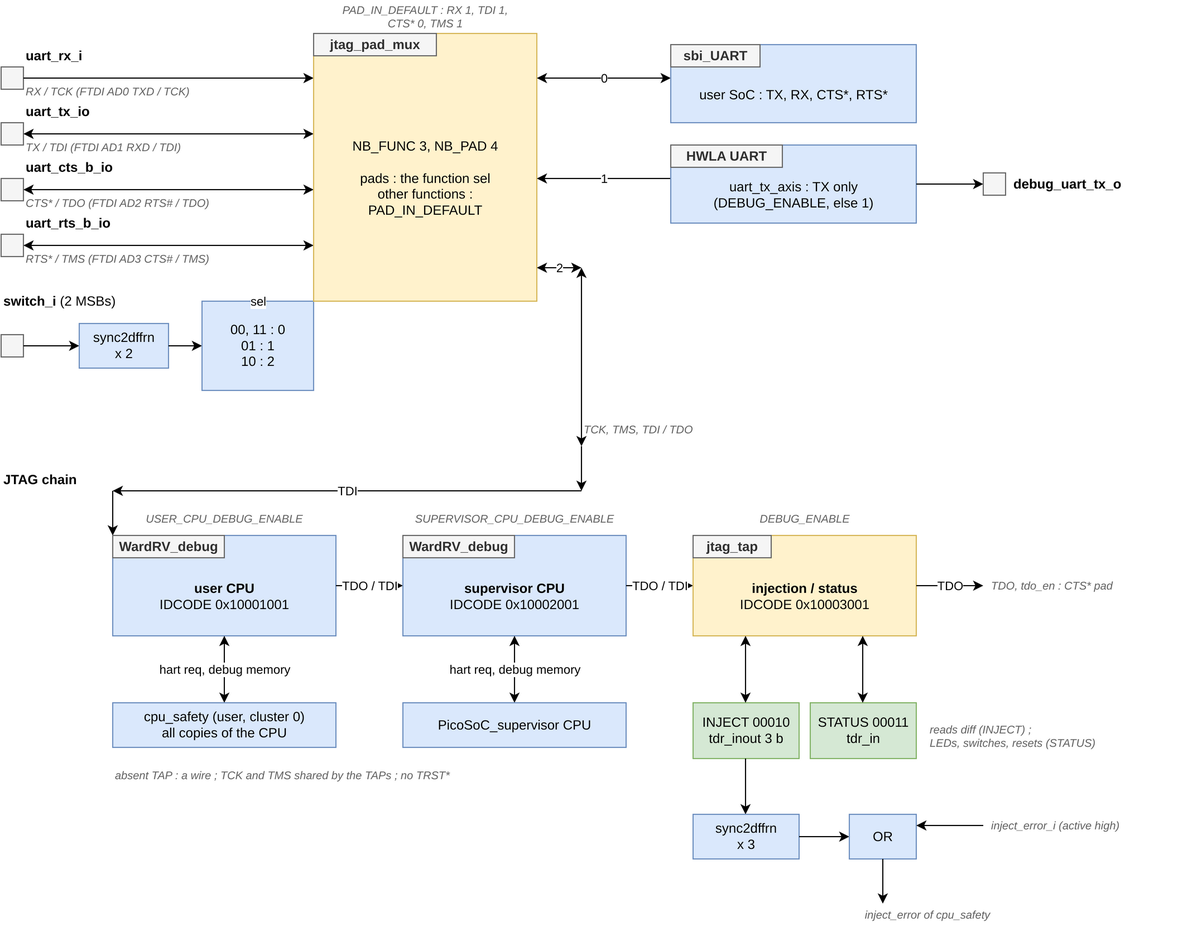
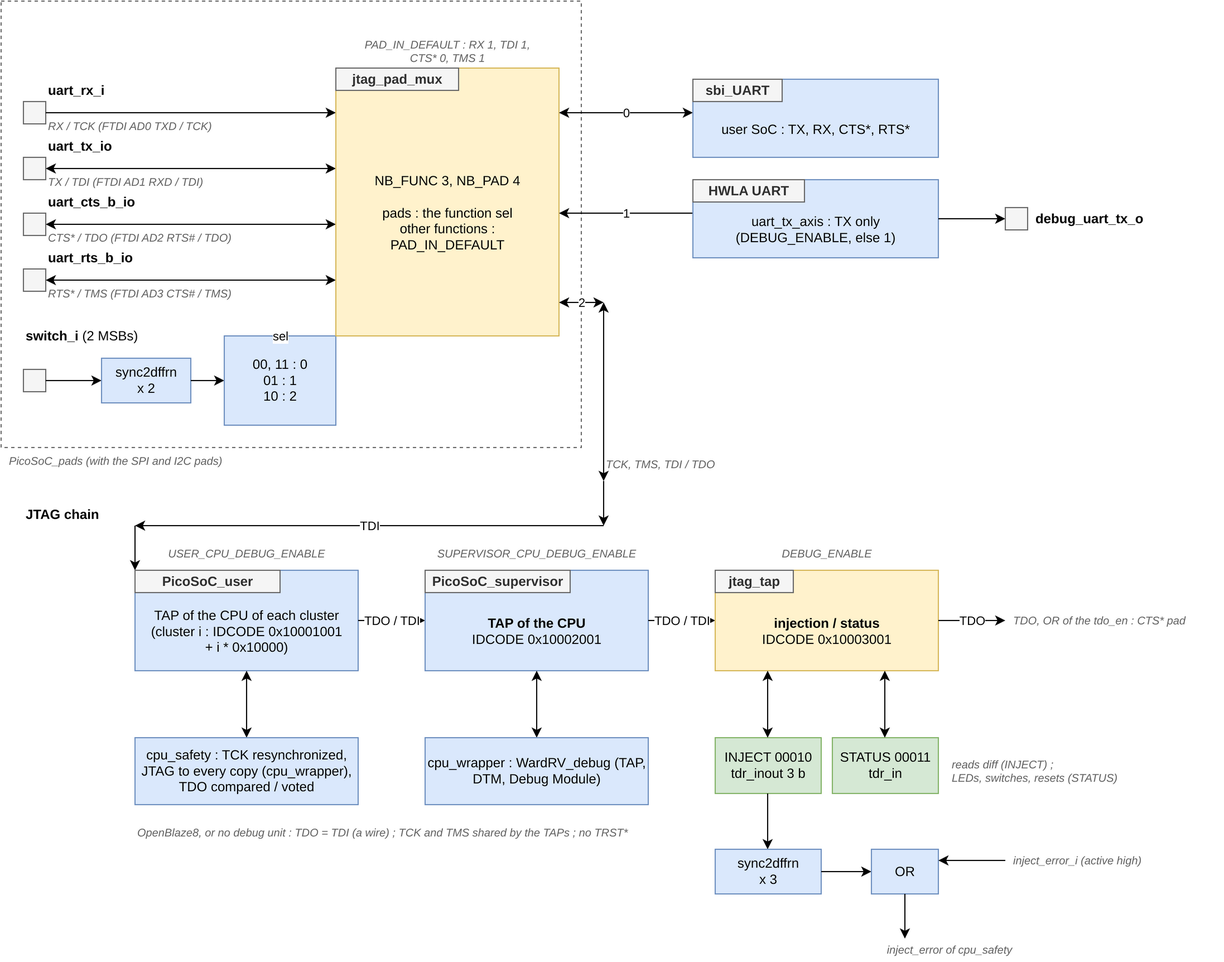
PicoSoC - README : debug units in cpu_wrapper, PicoSoC_pads, JTAG timing (TCK below FSYS_INT / 8), Resources, doc page jtag

diff --git a/README.md b/README.md
@@ -61,7 +61,7 @@ The SoC has two parts:
 - the **user SoC** (`PicoSoC_user`): 1 to `USER_NB_CPU` CPU clusters (CPU, program ROM, local interconnect, GIC and RAM) sharing the peripherals through a global interconnect;
 - the **supervisor SoC** (`PicoSoC_supervisor`, optional): one CPU that watches the differences between the redundant user CPUs (lock-step or TMR) and resets the user SoC on an error.
 
-The top level `PicoSoC_top` adds the board side: reset resynchronization, clock divider, input polarities, SPI and I2C pads, the UART pads shared by the user UART, the UART of the logic analyzer and a JTAG chain (selected by two switches), with `DEBUG_ENABLE` a logic analyzer (HWLA) on the bus of the user CPU and a JTAG TAP of fault injection and status, and optionally the RISC-V debuggers of the WardRV CPUs in the JTAG chain. The firmware in [esw/](esw/) is compiled by FuseSoC generators into the ROMs at build time; the targets run it on GHDL testbenches or on a NanoXplore NG-MEDIUM board.
+The top level `PicoSoC_top` adds the board side: reset resynchronization, clock divider, input polarities, the pads (`PicoSoC_pads`: SPI, I2C, and the UART pads shared by the user UART, the UART of the logic analyzer and a JTAG chain, selected by two switches), with `DEBUG_ENABLE` a logic analyzer (HWLA) on the bus of the user CPU and a JTAG TAP of fault injection and status. The JTAG chain also goes through the user and supervisor SoCs, where the WardRV CPUs can have their RISC-V debug unit (in `cpu_wrapper`). The firmware in [esw/](esw/) is compiled by FuseSoC generators into the ROMs at build time; the targets run it on GHDL testbenches or on a NanoXplore NG-MEDIUM board.
 
 ## Features
 
@@ -75,7 +75,7 @@ The top level `PicoSoC_top` adds the board side: reset resynchronization, clock 
 - Firmware in C (and one assembler example): switch / LED identity, full peripheral test with UART output, Modbus RTU server, multi-core hello with spinlock, supervisor
 - Debug (`DEBUG_ENABLE`): HWLA logic analyzer on the bus of the user CPU, triggered by a difference of the redundant CPUs, captures sent on `debug_uart_tx_o` at 115200 baud; JTAG TAP of fault injection (ORed with `inject_error_i`) and status (LEDs, switches, resets)
 - UART pads shared by 3 functions (`jtag_pad_mux` of [asylum-debug-jtag](https://github.com/deuskane/asylum-debug-jtag)), selected by the two MSBs of `switch_i`: user UART, UART of the HWLA, JTAG chain; JTAG pinout of an FTDI MPSSE cable (FT232H / FT2232H): one cable is the UART and the JTAG probe
-- JTAG chain: RISC-V debuggers (`WardRV_debug`, Debug Specification 1.0, for OpenOCD + GDB) of the user CPU (`USER_CPU_DEBUG_ENABLE`) and of the supervisor CPU (`SUPERVISOR_CPU_DEBUG_ENABLE`), then the injection / status TAP; the debug requests reach every redundant copy of the CPU
+- JTAG chain: RISC-V debug units (`WardRV_debug` in `cpu_wrapper`, Debug Specification 1.0, for OpenOCD + GDB) of the user CPUs (one TAP per cluster, `USER_CPU_DEBUG_ENABLE`) and of the supervisor CPU (`SUPERVISOR_CPU_DEBUG_ENABLE`), then the injection / status TAP; the JTAG pins reach every redundant copy of the CPU, whose TDO is compared or voted; an OpenBlaze8 (or a CPU without debug unit) is a wire in the chain (TDO = TDI)
 - Self-checking UVVM testbenches driven by the firmware, with an SPI flash model, and NG-MEDIUM board targets
 
 ## Block Diagram
@@ -88,7 +88,7 @@ Supervisor SoC (top) and user SoC (bottom) with their address maps. The dashed b
 
 ![UART pads and JTAG chain of PicoSoC_top](doc/picosoc-jtag.png)
 
-Page `jtag` of the same file: the UART pads, their multiplexer and the JTAG chain of `PicoSoC_top` (see [UART pads and JTAG](#uart-pads-and-jtag)).
+Page `jtag` of the same file: the UART pads and their multiplexer (`PicoSoC_pads`), and the JTAG chain of `PicoSoC_top` (see [UART pads and JTAG](#uart-pads-and-jtag)).
 
 ## Getting Started
 
@@ -234,8 +234,8 @@ Generics of `PicoSoC_top`:
 | `FSYS_INT` | positive | `50_000_000` | Frequency of the SoC (Hz): clock divider ratio `FSYS/FSYS_INT`, UART clock |
 | `RESET_POLARITY` | string | `"low"` | Active level of `arst_i`: `"high"` / `"low"` |
 | `DEBUG_ENABLE` | boolean | `True` | HWLA on the bus of the user CPU, captures on `debug_uart_tx_o` (see [Debug: HWLA](#debug-hwla)); JTAG TAP of fault injection and status, last TAP of the JTAG chain |
-| `USER_CPU_DEBUG_ENABLE` | boolean | `False` | RISC-V debugger (`WardRV_debug`) of the user CPU (cluster 0), first TAP of the JTAG chain; `CPU_MODEL = "WardRV_fsm"` only |
-| `SUPERVISOR_CPU_DEBUG_ENABLE` | boolean | `False` | RISC-V debugger of the supervisor CPU, TAP after the user CPU one; `CPU_MODEL = "WardRV_fsm"` and `SUPERVISOR` only |
+| `USER_CPU_DEBUG_ENABLE` | boolean | `False` | RISC-V debug unit (`WardRV_debug`, in `cpu_wrapper`) of the user CPU of every cluster: one TAP per cluster, first TAPs of the JTAG chain; `CPU_MODEL = "WardRV_fsm"` only |
+| `SUPERVISOR_CPU_DEBUG_ENABLE` | boolean | `False` | RISC-V debug unit of the supervisor CPU, TAP after the user CPU ones; `CPU_MODEL = "WardRV_fsm"` and `SUPERVISOR` only |
 | `CPU_MODEL` | string | `"OpenBlaze8"` | `"OpenBlaze8"` or `"WardRV_fsm"`, for the user and supervisor CPUs; the ROMs of the target must be built for this CPU |
 | `USER_NB_CPU` | natural | `1` | Number of CPU clusters of the user SoC |
 | `USER_ICN_TARGET_SEL` | string | `"or"` | Response selection of the user interconnects: `"or"` / `"mux"` |
@@ -313,22 +313,22 @@ Figures of the `syn_*` targets (`make nonreg_syn`, see [Targets](#targets)): `Pi
 
 | Configuration | LUT¹ | LUTRAM¹ | FF¹ | CARRY4¹ | MUXF7/F8¹ | BRAM¹ | DSP¹ | TBUF¹ | Area² (µm²) | kGE³ |
 |---|---|---|---|---|---|---|---|---|---|---|
-| `syn_soc1` (OpenBlaze8) | 1315 | 108 | 788 | 60 | 181 | 0.5 | 0 | 13 | 190926.86 | 50.865 |
-| `syn_soc4_ng_medium` (OpenBlaze8) | 1994 | 304 | 1006 | 128 | 77 | 1 | 0 | 7 | 490681.85 | 130.723 |
-| `syn_wardrv_soc1` (WardRV_fsm) | 2188 | 104 | 1069 | 54 | 203 | 1 | 0 | 13 | 164076.11 | 43.712 |
-| `syn_wardrv_soc4_ng_medium` (WardRV_fsm) | 5442 | 304 | 2137 | 104 | 729 | 2 | 0 | 7 | 380302.24 | 101.317 |
-| `syn_wardrv_soc4_ng_medium_debug` (WardRV_fsm, `DEBUG_ENABLE`, both CPU debuggers) | 8685 | 420 | 3591 | 135 | 1152 | 2 | 0 | 7 | 685343.55 | 182.583 |
+| `syn_soc1` (OpenBlaze8) | 1313 | 108 | 788 | 60 | 164 | 0.5 | 0 | 13 | 192036.68 | 51.161 |
+| `syn_soc4_ng_medium` (OpenBlaze8) | 1993 | 304 | 1006 | 128 | 76 | 1 | 0 | 7 | 492165.78 | 131.118 |
+| `syn_wardrv_soc1` (WardRV_fsm) | 2121 | 104 | 1069 | 54 | 216 | 1 | 0 | 13 | 164231.26 | 43.753 |
+| `syn_wardrv_soc4_ng_medium` (WardRV_fsm) | 5459 | 304 | 2137 | 104 | 773 | 2 | 0 | 7 | 380099.55 | 101.263 |
+| `syn_wardrv_soc4_ng_medium_debug` (WardRV_fsm, `DEBUG_ENABLE`, both CPU debuggers) | 9356 | 420 | 4343 | 149 | 1186 | 2 | 0 | 7 | 718594.19 | 191.441 |
 
 With the HWLA ([Debug: HWLA](#debug-hwla)) and the injection / status TAP: the same configurations with `DEBUG_ENABLE = true` (`fusesoc --cores-root . run --target syn_soc1 asylum:soc:PicoSoC --DEBUG_ENABLE=true`):
 
 | Configuration, `DEBUG_ENABLE = true` | LUT¹ | LUTRAM¹ | FF¹ | CARRY4¹ | MUXF7/F8¹ | BRAM¹ | DSP¹ | TBUF¹ | Area² (µm²) | kGE³ |
 |---|---|---|---|---|---|---|---|---|---|---|
-| `syn_soc1` (OpenBlaze8) | 1609 | 204 | 1150 | 77 | 78 | 0.5 | 0 | 13 | 367182.16 | 97.821 |
-| `syn_soc4_ng_medium` (OpenBlaze8) | 2361 | 400 | 1377 | 145 | 63 | 1 | 0 | 7 | 671804.31 | 178.976 |
-| `syn_wardrv_soc1` (WardRV_fsm) | 2453 | 220 | 1473 | 71 | 162 | 1 | 0 | 13 | 378757.01 | 100.905 |
-| `syn_wardrv_soc4_ng_medium` (WardRV_fsm) | 5701 | 420 | 2550 | 121 | 639 | 2 | 0 | 7 | 592685.93 | 157.898 |
+| `syn_soc1` (OpenBlaze8) | 1590 | 204 | 1150 | 77 | 83 | 0.5 | 0 | 13 | 365899.68 | 97.480 |
+| `syn_soc4_ng_medium` (OpenBlaze8) | 2430 | 400 | 1377 | 145 | 278 | 1 | 0 | 7 | 669938.77 | 178.479 |
+| `syn_wardrv_soc1` (WardRV_fsm) | 2503 | 220 | 1473 | 71 | 209 | 1 | 0 | 13 | 378670.68 | 100.882 |
+| `syn_wardrv_soc4_ng_medium` (WardRV_fsm) | 5796 | 420 | 2550 | 121 | 763 | 2 | 0 | 7 | 592107.88 | 157.744 |
 
-The HWLA and its UART cost about 180 to 260 LUTs, 96 (OpenBlaze8) or 116 (WardRV_fsm) LUTRAM for its RAM of 64 x 72 or 86 bits, 280 to 330 flip-flops and 17 CARRY4 on Artix-7, and 170000 to 210000 µm² in sky130, where its RAM becomes flip-flops. The injection / status TAP adds about 80 to 90 flip-flops (its IDCODE, IR and TDR shift registers, the INJECT register and its synchronizers) and up to about 130 LUTs (the LUT count of the `DEBUG_ENABLE` configurations moves with the technology mapping); the CPU debuggers (`syn_wardrv_soc4_ng_medium_debug` against `syn_wardrv_soc4_ng_medium` with `DEBUG_ENABLE`) about 3000 LUTs and 1040 flip-flops: two Debug Modules and the debug logic of the 4 WardRV_fsm (3 user copies in TMR and the supervisor). The two synchronizers of the switch MSBs (pad multiplexer) add 4 flip-flops to every configuration; the other small differences between versions come from the technology mapping, which changes with the order and the names of the cells of the netlist.
+The HWLA and its UART cost about 180 to 260 LUTs, 96 (OpenBlaze8) or 116 (WardRV_fsm) LUTRAM for its RAM of 64 x 72 or 86 bits, 280 to 330 flip-flops and 17 CARRY4 on Artix-7, and 170000 to 210000 µm² in sky130, where its RAM becomes flip-flops. The injection / status TAP adds about 80 to 90 flip-flops (its IDCODE, IR and TDR shift registers, the INJECT register and its synchronizers) and up to about 130 LUTs (the LUT count of the `DEBUG_ENABLE` configurations moves with the technology mapping); the CPU debug units (`syn_wardrv_soc4_ng_medium_debug` against `syn_wardrv_soc4_ng_medium` with `DEBUG_ENABLE`) about 3600 LUTs and 1800 flip-flops: a debug unit (TAP, DTM, Debug Module) in each of the 4 WardRV_fsm (3 user copies in TMR and the supervisor) and their debug logic. The two synchronizers of the switch MSBs (pad multiplexer) add 4 flip-flops to every configuration; the other small differences between versions come from the technology mapping, which changes with the order and the names of the cells of the netlist.
 
 ¹ Xilinx Artix-7 (LUT6), Yosys 0.33 `synth_xilinx -flatten -noiopad -noclkbuf`, before place and route: every cell of the netlist is counted, Vivado may differ. An `INV` counts as a `LUT1`. The user ROM goes to BRAM (a `RAMB18E1` counts 0.5), the RAMs and FIFOs mostly to LUTRAM. TBUF: tristate pad buffers (the OBUFT / IOBUF of the I/O blocks, not logic, never in LUT), one per pad whose output enable is not constant: the SPI data lanes (8 in `soc1`, 2 with the NG-MEDIUM generics; SCLK and CS\* are plain outputs), I2C SCL and SDA, and the 3 inout UART pads (TX / TDI, CTS\* / TDO, RTS\* / TMS). The logic that drives the pads (data and output enables, TDO of the JTAG chain) is counted. These figures need `asylum:utils:yosys_synth` >= 1.1.0: older versions lost the logic behind the `inout` pads of component instances (a GHDL synthesis issue) and rejected the tristate buffers.
 
@@ -336,7 +336,7 @@ The HWLA and its UART cost about 180 to 260 LUTs, 96 (OpenBlaze8) or 116 (WardRV
 
 ³ Area in thousands of NAND2 gate equivalents (`sky130_fd_sc_hd__nand2_1` = 3.7536 µm²).
 
-The NG-MEDIUM board targets (`emu_ng_medium_*`) need NXmap, which is not in the asylum-env image: no figure for this FPGA (about 32000 4-input LUTs and 32000 flip-flops: the 8.7k LUT6 and 3.6k flip-flops of the largest configuration, with the CPU debuggers, are expected to fit, not checked with NXmap).
+The NG-MEDIUM board targets (`emu_ng_medium_*`) need NXmap, which is not in the asylum-env image: no figure for this FPGA (about 32000 4-input LUTs and 32000 flip-flops: the 9.4k LUT6 and 4.3k flip-flops of the largest configuration, with the CPU debuggers, are expected to fit, not checked with NXmap).
 
 ## Theory of Operation
 
@@ -344,11 +344,12 @@ The NG-MEDIUM board targets (`emu_ng_medium_*`) need NXmap, which is not in the 
 
 | File | Unit | Role |
 |------|------|------|
-| [hdl/PicoSoC_top.vhd](hdl/PicoSoC_top.vhd) | `PicoSoC_top` | Top level: reset resynchronization, clock divider, polarities, user and supervisor SoCs, SPI and I2C pads, UART pads (`jtag_pad_mux`), JTAG chain (CPU debuggers, injection / status TAP), HWLA (`DEBUG_ENABLE`) |
+| [hdl/PicoSoC_top.vhd](hdl/PicoSoC_top.vhd) | `PicoSoC_top` | Top level: reset resynchronization, clock divider, polarities, user and supervisor SoCs, pads, JTAG chain (user SoC, supervisor SoC, injection / status TAP), HWLA (`DEBUG_ENABLE`) |
+| [hdl/PicoSoC_pads.vhd](hdl/PicoSoC_pads.vhd) | `PicoSoC_pads` | Pads: UART pads shared by the user UART, the HWLA UART and the JTAG chain (`jtag_pad_mux`, switch MSB synchronizers and select), SPI pads (`obuf`, `iobuf`), I2C open-drain pads |
 | [hdl/PicoSoC_user.vhd](hdl/PicoSoC_user.vhd) | `PicoSoC_user` | User SoC: CPU clusters (`cpu_safety`, `ROM_user`, ICN1, GIC, RAM1), ICN2 and the shared peripherals |
 | [hdl/PicoSoC_supervisor.vhd](hdl/PicoSoC_supervisor.vhd) | `PicoSoC_supervisor` | Supervisor SoC: CPU, `ROM_supervisor`, ICN, 2 GPIO, GIC, RAM |
-| [hdl/cpu_safety.vhd](hdl/cpu_safety.vhd) | `cpu_safety` | 1, 2 or 3 CPUs, lock-step delay line and compare, TMR vote, fault injection, debug ports of the copies |
-| [hdl/cpu_wrapper.vhd](hdl/cpu_wrapper.vhd) | `cpu_wrapper` | `sbi_OpenBlaze8` or `sbi_WardRV_fsm` from `CPU_MODEL` (debug ports with `DEBUG_ENABLE`) |
+| [hdl/cpu_safety.vhd](hdl/cpu_safety.vhd) | `cpu_safety` | 1, 2 or 3 CPUs, lock-step delay line and compare, TMR vote, fault injection, JTAG pins of the copies (TCK resynchronized) |
+| [hdl/cpu_wrapper.vhd](hdl/cpu_wrapper.vhd) | `cpu_wrapper` | `sbi_OpenBlaze8` or `sbi_WardRV_fsm` from `CPU_MODEL`; with `DEBUG_ENABLE` (WardRV_fsm) its debug unit `WardRV_debug`, else TDO = TDI |
 | [hdl/PicoSoC_pkg.vhd](hdl/PicoSoC_pkg.vhd) | `PicoSoC_pkg` | Address maps, GIC source indexes, JTAG IDCODEs and instructions, debug records, components |
 | (generated) | `ROM_user`, `ROM_supervisor` | Program ROMs built from [esw/](esw/) by `pbcc_gen` / `rvcc_gen` |
 
@@ -376,11 +377,11 @@ Safety and multi-core combine: the redundancy is inside each cluster (its `cpu_s
 
 ![cpu_safety lock-step](doc/picosoc-cpu_safety-lock_step.png)
 
-Lock-step: CPU0 drives the SoC. Its inputs (reset, instruction, bus response, interrupt, debug requests) go through `USER_LOCK_STEP_DEPTH` registers to CPU1; the outputs of CPU1 (`ics`, `iaddr`, interrupt acknowledge, bus request, debug memory access) are compared with the delayed outputs of CPU0. The bus requests are compared with the `"/="` of `sbi_pkg`: the address only when `cs = '1'`, the data only when `we = '1'`. A difference sets `diff_o(0)` until the reset.
+Lock-step: CPU0 drives the SoC. Its inputs (reset, instruction, bus response, interrupt, JTAG pins of the debug unit) go through `USER_LOCK_STEP_DEPTH` registers to CPU1; the outputs of CPU1 (`ics`, `iaddr`, interrupt acknowledge, bus request, TDO and `ndmreset` of the debug unit) are compared with the delayed outputs of CPU0. The bus requests are compared with the `"/="` of `sbi_pkg`: the address only when `cs = '1'`, the data only when `we = '1'`. A difference sets `diff_o(0)` until the reset.
 
 ![cpu_safety TMR](doc/picosoc-cpu_safety-TMR.png)
 
-TMR: 3 CPUs get the same inputs; `ics`, `iaddr`, the bus request, the interrupt acknowledge and the debug memory access are majority-voted bit by bit. `diff_o` bits 0, 1, 2 latch the differences CPU0 / CPU1, CPU1 / CPU2 and CPU2 / CPU0.
+TMR: 3 CPUs get the same inputs; `ics`, `iaddr`, the bus request, the interrupt acknowledge, TDO and `ndmreset` are majority-voted bit by bit. `diff_o` bits 0, 1, 2 latch the differences CPU0 / CPU1, CPU1 / CPU2 and CPU2 / CPU0.
 
 Fault injection: `inject_error_i(i)` XORs one instruction bit of CPU `i` (bit 17 / 16 / 15 for OpenBlaze8, bit 0 / 1 / 2 for WardRV). The difference flags of all clusters are ORed into `PicoSoC_user.diff_o`.
 
@@ -425,7 +426,7 @@ gtkwave capture.vcd
 
 ### UART pads and JTAG
 
-The 4 UART pads go through `jtag_pad_mux` of [asylum-debug-jtag](https://github.com/deuskane/asylum-debug-jtag): the two MSBs of `switch_i` (`switch_i(USER_NB_SWITCH-1 downto USER_NB_SWITCH-2)`, synchronized on the SoC clock by two `sync2dffrn`) give them to one function:
+The 4 UART pads go through `jtag_pad_mux` (in `PicoSoC_pads`) of [asylum-debug-jtag](https://github.com/deuskane/asylum-debug-jtag): the two MSBs of `switch_i` (`switch_i(USER_NB_SWITCH-1 downto USER_NB_SWITCH-2)`, synchronized on the SoC clock by two `sync2dffrn`) give them to one function:
 
 | Switches (MSBs) | Function | Pads |
 |-----------------|----------|------|
@@ -442,19 +443,19 @@ The pinout is the one of an FTDI MPSSE cable (FT232H, channel A of an FT2232H): 
 | `uart_cts_b_io` | AD2 (RTS# / TDO) | CTS*, input | TDO, output in Shift-IR / Shift-DR, `'Z'` otherwise | `IOB5_D01N`, weak pull-down |
 | `uart_rts_b_io` | AD3 (CTS# / TMS) | RTS*, output | TMS, input | `IOB5_D01P`, weak pull-up |
 
-The functions that do not own the pads see `PAD_IN_DEFAULT`: RX idle (`'1'`), CTS* active (`'0'`: the user UART keeps sending into nothing and its firmware never waits, so the program goes on while the pads are given to JTAG), TDI `'1'`, TMS `'1'` (the TAPs stay in Test-Logic-Reset); TCK reads the RX default (`'1'`, no clock edge). Without any TAP (`DEBUG_ENABLE` and both CPU debuggers off), the JTAG mode drives no pad: TDO stays `'Z'`. The pad mapping is in the `PAD_*` constants and in one assignment block of `PicoSoC_top`; a fourth function on the code `11` is one more line in the decoder (and `NB_FUNC = 4`).
+The functions that do not own the pads see `PAD_IN_DEFAULT`: RX idle (`'1'`), CTS* active (`'0'`: the user UART keeps sending into nothing and its firmware never waits, so the program goes on while the pads are given to JTAG), TDI `'1'`, TMS `'1'` (the TAPs stay in Test-Logic-Reset); TCK reads the RX default (`'1'`, no clock edge). Without any TAP (`DEBUG_ENABLE` and both CPU debuggers off), the JTAG mode drives no pad: TDO stays `'Z'`. The pad mapping is in the `PAD_*` constants and in one assignment block of `PicoSoC_pads`; a fourth function on the code `11` is one more line in the decoder (and `NB_FUNC = 4`).
 
 Switch the mode of the FPGA before starting the terminal or OpenOCD on the cable: in the wrong mode, two outputs drive the same wire (TX of the SoC and TDI of the probe, RTS* of the SoC and TMS of the probe). Series resistors (about 330 Ω) on these wires limit the current of such a contention. The multiplexer has no clock: change the switches while the functions are idle.
 
-**JTAG chain.** TDI → user CPU debugger → supervisor CPU debugger → injection / status TAP → TDO. The TAPs share TCK and TMS (they are always in the same state); TDO and its enable come from the last TAP. An absent TAP is a wire, so the chain has 0 to 3 TAPs. Every TAP has a 5-bit IR; they are reset by the reset of the supervisor (power-on) and by 5 TCK with TMS = 1.
+**JTAG chain.** TDI → user SoC (the TAP of the CPU of each cluster, cluster 0 first) → supervisor SoC (the TAP of its CPU) → injection / status TAP → TDO. The TAPs share TCK and TMS (they are always in the same state); TDO comes from the last stage, its enable is the OR of the enables of the stages. A CPU without debug unit (OpenBlaze8, or `*_CPU_DEBUG_ENABLE = false`) and an absent TAP are wires (TDO = TDI, TDO never driven), so the chain has 0 to `USER_NB_CPU` + 2 TAPs. Every TAP has a 5-bit IR; they are reset by the reset of the supervisor (power-on) and by 5 TCK with TMS = 1.
 
 | Position from TDI | TAP | Present with | IDCODE | Instructions |
 |-------------------|-----|--------------|--------|--------------|
-| 1st | `WardRV_debug` of the user CPU (cluster 0) | `USER_CPU_DEBUG_ENABLE` | `0x10001001` | IDCODE `00001`, DTMCS `10000`, DMI `10001`, BYPASS |
-| 2nd | `WardRV_debug` of the supervisor CPU | `SUPERVISOR_CPU_DEBUG_ENABLE` | `0x10002001` | same |
+| 1st to `USER_NB_CPU`-th | `WardRV_debug` of the user CPU of cluster `i` | `USER_CPU_DEBUG_ENABLE` | `0x10001001` + `i` x `0x10000` | IDCODE `00001`, DTMCS `10000`, DMI `10001`, BYPASS |
+| next | `WardRV_debug` of the supervisor CPU | `SUPERVISOR_CPU_DEBUG_ENABLE` | `0x10002001` | same |
 | last | `jtag_tap`, injection / status | `DEBUG_ENABLE` | `0x10003001` | IDCODE `00001`, INJECT `00010`, STATUS `00011`, BYPASS (every other opcode) |
 
-The IDCODEs (`PICOSOC_JTAG_IDCODE_*` of `PicoSoC_pkg`) are version 1, part number 1, 2 or 3, manufacturer 0.
+The IDCODEs (`PICOSOC_JTAG_IDCODE_*` of `PicoSoC_pkg`) are version 1, manufacturer 0, part number `0x0001` + `0x10` x `i` for the user CPU of cluster `i`, 2 for the supervisor CPU, 3 for the injection / status TAP.
 
 **Injection / status TAP** (`DEBUG_ENABLE`): a `jtag_tap` with its instruction decoder and two test data registers, in the TCK domain:
 
@@ -465,15 +466,25 @@ The IDCODEs (`PICOSOC_JTAG_IDCODE_*` of `PicoSoC_pkg`) are version 1, part numbe
 
 The injection written by an Update-DR (falling edge of TCK) goes through a `sync2dffrn` per bit to the SoC clock, then is ORed with `inject_error_i` after its polarity (`USER_FAULT_POLARITY`): both inject while either is active. It stays until the next scan of INJECT, a Test-Logic-Reset or the power-on reset. The read values are quasi-static (LEDs, switches, sticky difference flags, resets): they are loaded in Capture-DR without synchronizer, a bit that changes during the capture may be read old or new.
 
-**CPU debuggers** (`USER_CPU_DEBUG_ENABLE`, `SUPERVISOR_CPU_DEBUG_ENABLE`, `CPU_MODEL = "WardRV_fsm"`): `WardRV_debug` of [asylum-processor-WardRV](https://github.com/deuskane/asylum-processor-WardRV) (TAP, DTM, Debug Module with a program buffer of 2 words and 2 data registers, no system bus access, no TRST*) on the SoC clock, connected to the debug ports of `sbi_WardRV_fsm` (`DEBUG_ENABLE` of `cpu_wrapper`). The user debugger sees the CPU of cluster 0. With lock-step or TMR, the debug requests (halt request, answers of the debug memory) reach every copy of the CPU through the same path as their other inputs (delayed for CPU1 in lock-step), and the debug memory accesses of the copies are checked like their other outputs: compared with CPU0 (lock-step, CPU0 answers) or voted (TMR). So a halted, stepped or resumed CPU stays in lock-step: no difference flag. The debuggers are reset by the reset of the supervisor (power-on), not by a reset of the user SoC; `ndmreset` of a debugger resets the SoC of its CPU (the supervisor SoC holds the user SoC in reset).
+**CPU debug units** (`USER_CPU_DEBUG_ENABLE`, `SUPERVISOR_CPU_DEBUG_ENABLE`, `CPU_MODEL = "WardRV_fsm"`): each `cpu_wrapper` with `DEBUG_ENABLE` instantiates `WardRV_debug` of [asylum-processor-WardRV](https://github.com/deuskane/asylum-processor-WardRV) (TAP, DTM, Debug Module with a program buffer of 2 words and 2 data registers, no system bus access, no TRST*) next to its `sbi_WardRV_fsm`: the halt requests and the debug memory stay inside `cpu_wrapper`, which only has the JTAG pins, the power-on reset of the debug unit and `ndmreset`. With lock-step or TMR, every copy of the CPU has its debug unit: `cpu_safety` resynchronizes TCK on the SoC clock (`sync2dffrn`), then gives the JTAG pins to every copy like their other inputs (to CPU1 through the lock-step delay line), and checks their TDO and `ndmreset` like their other outputs (compared with CPU0, which drives them, in lock-step; voted in TMR). So a halted, stepped or resumed CPU stays in lock-step: no difference flag. The debug units are reset by the reset of the supervisor (power-on), not by a reset of the user SoC; `ndmreset` of a debug unit resets the SoC of its CPU (the supervisor SoC holds the user SoC in reset).
 
-On the host, OpenOCD with the FTDI cable (TAPs declared from TDI; take the riscv target lines of [wardrv.cfg](https://github.com/deuskane/asylum-processor-WardRV/blob/main/sim/openocd/wardrv.cfg), keep the TCK frequency well below `FSYS_INT`):
+**JTAG timing.** TCK is resynchronized on the SoC clock in front of the user CPU debug units: this is not a protocol change (IEEE 1149.1 behaviour unchanged, the probes change TMS and TDI on the falling edge of TCK and sample TDO on the rising edge), but a limit on TCK:
+
+| Parameter | Value |
+|-----------|-------|
+| TCK frequency | below about `FSYS_INT` / 8 (1.5 MHz at 12.5 MHz); TCK high and low each more than 3 SoC clock cycles |
+| TMS, TDI hold after the rising edge of TCK | about 3 SoC clock cycles (the edge is seen up to 3 cycles later) |
+| TDO valid after the falling edge of TCK | about 3 SoC clock cycles |
+
+A probe faster than this limit can miss TCK pulses (the scans then fail). The testbench uses TCK = 1 µs.
+
+On the host, OpenOCD with the FTDI cable (TAPs declared from TDI; take the riscv target lines of [wardrv.cfg](https://github.com/deuskane/asylum-processor-WardRV/blob/main/sim/openocd/wardrv.cfg), TCK below `FSYS_INT` / 8, see JTAG timing):
 
 ```tcl
 adapter driver ftdi
 ftdi vid_pid 0x0403 0x6014           ;# FT232H (FT2232H : 0x0403 0x6010, channel A)
 ftdi layout_init 0x0008 0x000b       ;# TCK AD0, TDI AD1, TDO AD2, TMS AD3 (high)
-adapter speed 1000
+adapter speed 500
 transport select jtag
 reset_config none
 jtag newtap user       cpu    -irlen 5 -expected-id 0x10001001
@@ -485,7 +496,7 @@ init
 irscan picosoc.inject 0x02 ; drscan picosoc.inject 3 0x1   ;# inject an error in CPU0
 ```
 
-Remove the `newtap` and `target` lines of the absent TAPs.
+Remove the `newtap` and `target` lines of the absent TAPs; with `USER_NB_CPU` > 1, one `newtap` / `target` pair per cluster (IDCODE `0x10001001` + `i` x `0x10000`), cluster 0 first.
 
 ## Programmer's Guide
 
@@ -569,7 +580,7 @@ Clear the old events of a GIC source before unmasking it: the `isr` register als
 
 | File | DUT | Description |
 |------|-----|-------------|
-| [sim/picosoc/tb_PicoSoC.vhd](sim/picosoc/tb_PicoSoC.vhd) | `PicoSoC_top` | Self-checking UVVM testbench driven by the firmware of the target: drives the switches, `it_user_i` and `inject_error_i`, checks LED0, LED1, `led_diff_o`, `pwm_o`, the UART lines (UART VIP) and the captures of the HWLA on `debug_uart_tx_o` (UART VIP, with a copy of the user ROM `ROM_user` as the reference of the instruction bus); the I2C bus has pull-ups and the UVVM I2C BFM (slave or master of the SoC). The UART pads have pull-ups (a pad driven by nobody reads `'H'`) and a model of the FTDI cable: RX and CTS* driven by the testbench in the UART modes, TCK, TDI and TMS by the JTAG BFM `jtag_bfm_pkg` of [asylum-verification-uvvm](https://github.com/deuskane/asylum-verification-uvvm) in the JTAG mode (switches `10`), TDO read on `uart_cts_b_io`; the monitor `jtag_ir_capture_monitor` of the BFM checks the Capture-IR value of the whole chain (`00001` per TAP) at each IR scan. The BFM scans one TAP: [tb_PicoSoC_jtag_pkg](sim/picosoc/tb_PicoSoC_jtag_pkg.vhd) scans the chain (the other TAPs in BYPASS) and holds the DTM / DMI accesses of a debugger (as `WardRV_vips` of WardRV). Generics: the DUT configuration (CPU, clusters, safety, polarities), `TESTS_LIST`, `FIRMWARE` (program of the user ROM: `identity`, `user`, `user_uart`, `user_uart_spi`, `user_uart_spi_mem`, `hello` or an integration firmware `test_<ip>`; it selects the scenarios that apply), `TB_WATCHDOG` (timeout of each wait, in `clk_i` cycles) and `SPI_MODEL` (`m25p40` / `s25fl512s` flash model preloaded with [sim/mem/memory.mem](sim/mem/memory.mem)). Scenarios in `tb_PicoSoC_<name>_pkg`, names, applicability and dispatch in [tb_PicoSoC_tests_pkg](sim/picosoc/tb_PicoSoC_tests_pkg.vhd), helpers in [tb_PicoSoC_bfm_pkg](sim/picosoc/tb_PicoSoC_bfm_pkg.vhd). With an integration firmware, a UART console logs every line and stops on `FAIL <step>`, whatever the scenario waits for |
+| [sim/picosoc/tb_PicoSoC.vhd](sim/picosoc/tb_PicoSoC.vhd) | `PicoSoC_top` | Self-checking UVVM testbench driven by the firmware of the target: drives the switches, `it_user_i` and `inject_error_i`, checks LED0, LED1, `led_diff_o`, `pwm_o`, the UART lines (UART VIP) and the captures of the HWLA on `debug_uart_tx_o` (UART VIP, with a copy of the user ROM `ROM_user` as the reference of the instruction bus); the I2C bus has pull-ups and the UVVM I2C BFM (slave or master of the SoC). The UART pads have pull-ups (a pad driven by nobody reads `'H'`) and a model of the FTDI cable: RX and CTS* driven by the testbench in the UART modes, TCK, TDI and TMS by the JTAG BFM `jtag_bfm_pkg` of [asylum-verification-uvvm](https://github.com/deuskane/asylum-verification-uvvm) in the JTAG mode (switches `10`, TCK 1 µs), TDO read on `uart_cts_b_io`; the monitor `jtag_ir_capture_monitor` of the BFM checks the Capture-IR value of the whole chain (`00001` per TAP) at each IR scan. The BFM scans one TAP: [tb_PicoSoC_jtag_pkg](sim/picosoc/tb_PicoSoC_jtag_pkg.vhd) scans the chain (the other TAPs in BYPASS) and holds the DTM / DMI accesses of a debugger (as `WardRV_vips` of WardRV). Generics: the DUT configuration (CPU, clusters, safety, polarities), `TESTS_LIST`, `FIRMWARE` (program of the user ROM: `identity`, `user`, `user_uart`, `user_uart_spi`, `user_uart_spi_mem`, `hello` or an integration firmware `test_<ip>`; it selects the scenarios that apply), `TB_WATCHDOG` (timeout of each wait, in `clk_i` cycles) and `SPI_MODEL` (`m25p40` / `s25fl512s` flash model preloaded with [sim/mem/memory.mem](sim/mem/memory.mem)). Scenarios in `tb_PicoSoC_<name>_pkg`, names, applicability and dispatch in [tb_PicoSoC_tests_pkg](sim/picosoc/tb_PicoSoC_tests_pkg.vhd), helpers in [tb_PicoSoC_bfm_pkg](sim/picosoc/tb_PicoSoC_bfm_pkg.vhd). With an integration firmware, a UART console logs every line and stops on `FAIL <step>`, whatever the scenario waits for |
 | [sim/modbus_rtu/tb_PicoSoC_modbus_rtu.vhd](sim/modbus_rtu/tb_PicoSoC_modbus_rtu.vhd) | `PicoSoC_top` | UVVM testbench of [esw/user_modbus_rtu.c](esw/user_modbus_rtu.c): the UART VIP is the Modbus RTU master (CRC16 computed by the bench) and reads / writes the SoC addresses. Scenarios in `tb_PicoSoC_modbus_rtu_<name>_pkg`, dispatch in [tb_PicoSoC_modbus_rtu_tests_pkg](sim/modbus_rtu/tb_PicoSoC_modbus_rtu_tests_pkg.vhd), Modbus frames in [tb_PicoSoC_modbus_rtu_bfm_pkg](sim/modbus_rtu/tb_PicoSoC_modbus_rtu_bfm_pkg.vhd) |
 
 Waveform setups: [sim/wave/waves.gtkw](sim/wave/waves.gtkw), [sim/wave/cpus.gtkw](sim/wave/cpus.gtkw).
@@ -590,9 +601,9 @@ The scenarios are chosen at run time with the generic `TESTS_LIST`: names separa
 | `fault_diff` | 4 | `user*`, no supervisor, lock-step or TMR, fault injection | Without supervisor `led_diff_o` shows the difference flags: an error in CPU0 sets them (lock-step `001`, TMR `101`) and they stay set |
 | `hwla` | 11 | `user*`, no supervisor, lock-step or TMR, fault injection, `DEBUG_ENABLE` | Switches `0x5A` then `0x96` (LED0 follows), `debug_uart_tx_o` idle until the error; error in CPU1 just after LED0 changes; the capture is received on `debug_uart_tx_o` with the UART VIP at 115200 baud and checked: the read of the new switches and their write to LED0 are in the samples before the trigger, the trigger sample is the sample 32 (its timestamp is the one of the write of LED0 plus the clock cycles between the change of LED0 and the difference flag on `led_diff_o`), the next capture does not continue it (64 samples), the timestamps increase and the probes change from a sample to the next (but the trigger sample), the instruction of each sample is the word of the user ROM at the address of the previous sample (or unchanged), with a copy of `ROM_user` in the testbench |
 | `pad_mux` | 24 (20 without `DEBUG_ENABLE` or fault injection) | `user_uart*` | Each code of the switch MSBs: `00` banner and echo, RTS* driven, CTS* not driven by the SoC; `11` echo, RTS* driven; `01` the loop lines of the firmware (switch 5) do not reach the TX pad, idle (`'1'`), CTS* and RTS* not driven, the firmware does not wait (LED0 follows the switches); `10` TDI, TMS and TDO pads not driven by the SoC out of a scan, the firmware does not wait; back to `00`: a complete `Loop` line; with `DEBUG_ENABLE` and fault injection, `01` again: an error in CPU0 triggers the HWLA, its capture is on the TX pad, bit by bit equal to `debug_uart_tx_o` during 3 bytes |
-| `jtag_chain` | 4 + 2 x TAPs (8 to 12) | `user*`, at least one TAP | JTAG mode; TDO not driven out of a scan; after Test-Logic-Reset one DR scan reads the IDCODE of every TAP in the chain order; every TAP in BYPASS: a DR scan is delayed by one bit per TAP; IDCODE of each TAP alone, the others in BYPASS; Capture-IR of the whole chain by the monitor |
+| `jtag_chain` | 6 + 2 x TAPs (8 to 12) | `user*`, at least one TAP | JTAG mode; TDO not driven out of a scan; after Test-Logic-Reset one DR scan reads the IDCODE of every TAP in the chain order; every TAP in BYPASS: a DR scan is delayed by one bit per TAP; IDCODE of each TAP alone, the others in BYPASS; Capture-IR of the whole chain by the monitor |
 | `jtag_inject` | 9 (no supervisor), 11 (supervisor) | `user*`, `DEBUG_ENABLE`, fault injection, no supervisor or lock-step | An error injected in CPU1 through INJECT (written `010`; the scan reads diff = `000` before); no supervisor: `led_diff_o` = flags of CPU1 (`001` lock-step, `011` TMR), read back through INJECT, sticky (read again); supervisor: the user SoC is reset and `led_diff_o` counts, diff `001` read during the injection, after it the firmware runs again, no more reset, diff `000` |
-| `jtag_status` | 8 (no supervisor), 10 (supervisor) | `user*`, `DEBUG_ENABLE` | STATUS read after reset, after new switches and an `it_user_i` pulse (LED1 = 1), and with fault injection after an error in CPU0 (`led_diff_o`); compared with the pins, resets `11` |
+| `jtag_status` | 8 (no supervisor), 10 (supervisor) | `user*`, `DEBUG_ENABLE` | STATUS read after reset, after new switches (`0x85`: no UART line, whose writes stall the fetches of the CPU, during the error) and an `it_user_i` pulse (LED1 = 1), and with fault injection after an error in CPU0 (`led_diff_o`); compared with the pins, resets `11` |
 | `jtag_cpu_user` | 27 (lock-step, with the injection TAP), 25 (TMR, without) | `user*`, `USER_CPU_DEBUG_ENABLE` | Debugger of the user CPU through the chain: dtmcs `0x00005071`, `dmactive`, `dmstatus` running, `havereset` acknowledged; `haltreq`: `allhalted`; halted, LED0 does not follow the switches; `resumereq`: `allresumeack`, `allrunning`, LED0 follows again; `led_diff_o` stays 0 (lock-step: no reset counted by the supervisor; TMR: no difference flag): the copies of the CPU halt and resume together; `ndmreset`: the user SoC in reset (LED0 = 0, STATUS resets `10` with the injection TAP), then the firmware runs again |
 | `jtag_cpu_supervisor` | 26 | `user*`, `SUPERVISOR_CPU_DEBUG_ENABLE` | Debugger of the supervisor CPU: as above; halted, an error (`inject_error_i`) is not handled (`led_diff_o` = 0); resumed, the user SoC is reset and the error counted; `ndmreset`: the supervisor SoC in reset holds the user SoC in reset (STATUS resets `00`), then both run again |
 | `hello` | 4 x `USER_NB_CPU` + 4 | `hello` | The first 4 x `USER_NB_CPU` UART lines are `CPU <id> - Loop <counter>` with a valid id and the counter 0, 1, 2, ... (mutual exclusion, shared counter in RAM2); every CPU takes the lock (LED1) and the counter progresses (LED0); `led_diff_o` stays 0 during the whole scenario: with lock-step or TMR, the copies of every cluster read the same `mhartid` (no difference flag, no error counted by the supervisor) |
@@ -634,6 +645,7 @@ A target is a firmware build: its generators compile the user and supervisor pro
 | `sim_soc3_wardrv_fsm_fault_c_user_uart_jtag` | `tb_PicoSoC` | Reference configuration of the JTAG scenarios: supervisor, lock-step, fault injection, `DEBUG_ENABLE`, both CPU debuggers (chain of 3 TAPs), `it_user_i` and `inject_error_i` active low; build only |
 | `sim_soc3_wardrv_fsm_fault_c_user_uart_jtag_<name>` | `tb_PicoSoC` | One target per scenario: `_pad_mux`, `_jtag_chain`, `_jtag_inject`, `_jtag_status`, `_jtag_cpu_user`, `_jtag_cpu_supervisor` |
 | `sim_soc5_wardrv_fsm_c_user_uart_jtag` | `tb_PicoSoC` | `pad_mux`, `jtag_chain`, `jtag_cpu_user`: no supervisor, TMR, user CPU debugger only, no `DEBUG_ENABLE` (`01` idle, chain of 1 TAP) |
+| `sim_soc1x2_wardrv_fsm_c_user_jtag` | `tb_PicoSoC` | `jtag_chain`: 2 user CPU clusters, each with its debug unit, and the injection / status TAP (chain of 3 TAPs) |
 | `sim_soc2_<cpu>_fault_c_user_hwla` | `tb_PicoSoC` | `hwla`, with `DEBUG_ENABLE = true` and a SoC clock of 1.152 MHz (`FSYS_INT`): 10 clock cycles per bit at 115200 baud, a capture of 50 ms (OpenBlaze8) or 62 ms (WardRV_fsm) of simulated time in about a minute |
 | `sim_soc3_<cpu>_fault_c_user` | `tb_PicoSoC` | `switch`, `it_user`, `fault_lock_step` |
 | `sim_soc4_wardrv_fsm_fault_c_user` | `tb_PicoSoC` | `switch`, `it_user`, `fault_tmr`, with `it_user_i` and `inject_error_i` active low (as on the board) |
@@ -656,6 +668,8 @@ The integration scenarios were validated with 45 integration mutants, each one r
 The scenario `hwla` was validated with 21 mutants in copies of the RTL, both CPUs (42 runs): trigger tied low or high, `arm_i` tied low, probe bits swapped (data address, instruction address, instruction bits 0 / 1 and 4 / 5, read / write strobes, write / read data, read data taken from the write data), baud tick of `FSYS_INT/115200` (no `- 1`), of `FSYS/115200 - 1` and of 9600 baud, parity enabled, CTS high, `debug_uart_tx_o` driven by a copy of `uart_tx_o` or by `'1'`, `PRE_TRIGGER` 31, `DEPTH` 128, `CHANGE_ONLY` false, `TIMESTAMP_WIDTH` 8: all are killed. Only the swap of the instruction bits 0 and 1 survives with WardRV_fsm, where both bits are always 1 (RV32I): it is killed with OpenBlaze8.
 
 The UART pads and the JTAG scenarios were validated with 30 mutants in copies of the RTL, each scenario run alone on the 3 JTAG configurations (and `fault_diff` for the buttons), 420 runs: pad select decode (`10`, `01`, wrong switch bit), TDO of the chain from another TAP, a CPU TAP missing from the chain, injection without the buttons, without the TDR, ORed before the polarity or inverted, INJECT / STATUS decoded the other way round, diff not read, STATUS fields swapped, output enables stuck or wrong in one mode (RTS* / TMS stuck at 1 or 0, CTS* / TDO driven in a UART mode, TX / TDI driven in the JTAG mode, TDO always driven), CTS* default inactive, debug requests not reaching CPU1 (lock-step) or CPU2 (TMR), debug memory answers of CPU1 not delayed, `ndmreset` not connected, no synchronizer input: 27 are killed. The 3 survivors are not observable with the fault model of the SoC or the firmware: RX default `0` (the break received by the user UART out of its modes only feeds the echo, which goes to the unselected TX pad), no compare and no vote of the debug memory accesses of the copies (`inject_error_i` flips the instructions of the program ROM, the debug code comes from the Debug Module: a fault never reaches these accesses).
+
+The debug units in `cpu_wrapper` were validated with 10 more mutants (each scenario alone on the JTAG configurations, 100 runs): a copy of the CPU without the JTAG pins (CPU1 lock-step or TMR, CPU2 TMR), the JTAG pins of CPU1 not delayed, the OpenBlaze8 wire broken (TDO = 0) and the supervisor SoC before the user SoC in the chain are killed. Equivalent with the fault model of the SoC (the copies stay identical, `inject_error_i` never reaches the debug units): TDO and `ndmreset` not compared (lock-step) or not voted (TMR). TCK not resynchronized also passes in simulation: the race it avoids (a TCK edge seen one SoC clock earlier by CPU0 than through the lock-step delay line) needs an edge at the same time as a clock edge, a metastable case of the board.
 
 ### How to Run
 
@@ -705,7 +719,7 @@ Outside the CI, GHDL writes a waveform `dut.fst`.
 | `asylum:component:ram` | [asylum-component-ram](https://github.com/deuskane/asylum-component-ram) | `sbi_ram` |
 | `asylum:component:fifo` | [asylum-component-fifo](https://github.com/deuskane/asylum-component-fifo) | FIFOs of the peripherals |
 | `asylum:processor:OpenBlaze8` | [asylum-processor-OpenBlaze8](https://github.com/deuskane/asylum-processor-OpenBlaze8) | `sbi_OpenBlaze8` |
-| `asylum:processor:WardRV` | [asylum-processor-WardRV](https://github.com/deuskane/asylum-processor-WardRV) | `sbi_WardRV_fsm`, `WardRV_debug` (CPU debuggers, >= 1.2.0: TAP of asylum-debug-jtag) |
+| `asylum:processor:WardRV` | [asylum-processor-WardRV](https://github.com/deuskane/asylum-processor-WardRV) | `sbi_WardRV_fsm`, `WardRV_debug` (debug units in `cpu_wrapper`, >= 1.2.0: TAP of asylum-debug-jtag) |
 | `asylum:utils:generators` | [asylum-utils-generators](https://github.com/deuskane/asylum-utils-generators) | `pbcc_gen` / `rvcc_gen` (firmware to ROM), regtool of the peripherals |
 | `asylum:utils:ghdl_synth`, `asylum:utils:yosys_synth` | [asylum-utils-generators](https://github.com/deuskane/asylum-utils-generators) | `lint_ghdl_synth_*` check, `syn_*` synthesis |
 | `bitvis:verification:uvvm` | [UVVM](https://github.com/UVVM/UVVM) | Verification library, UART and I2C VIPs |
